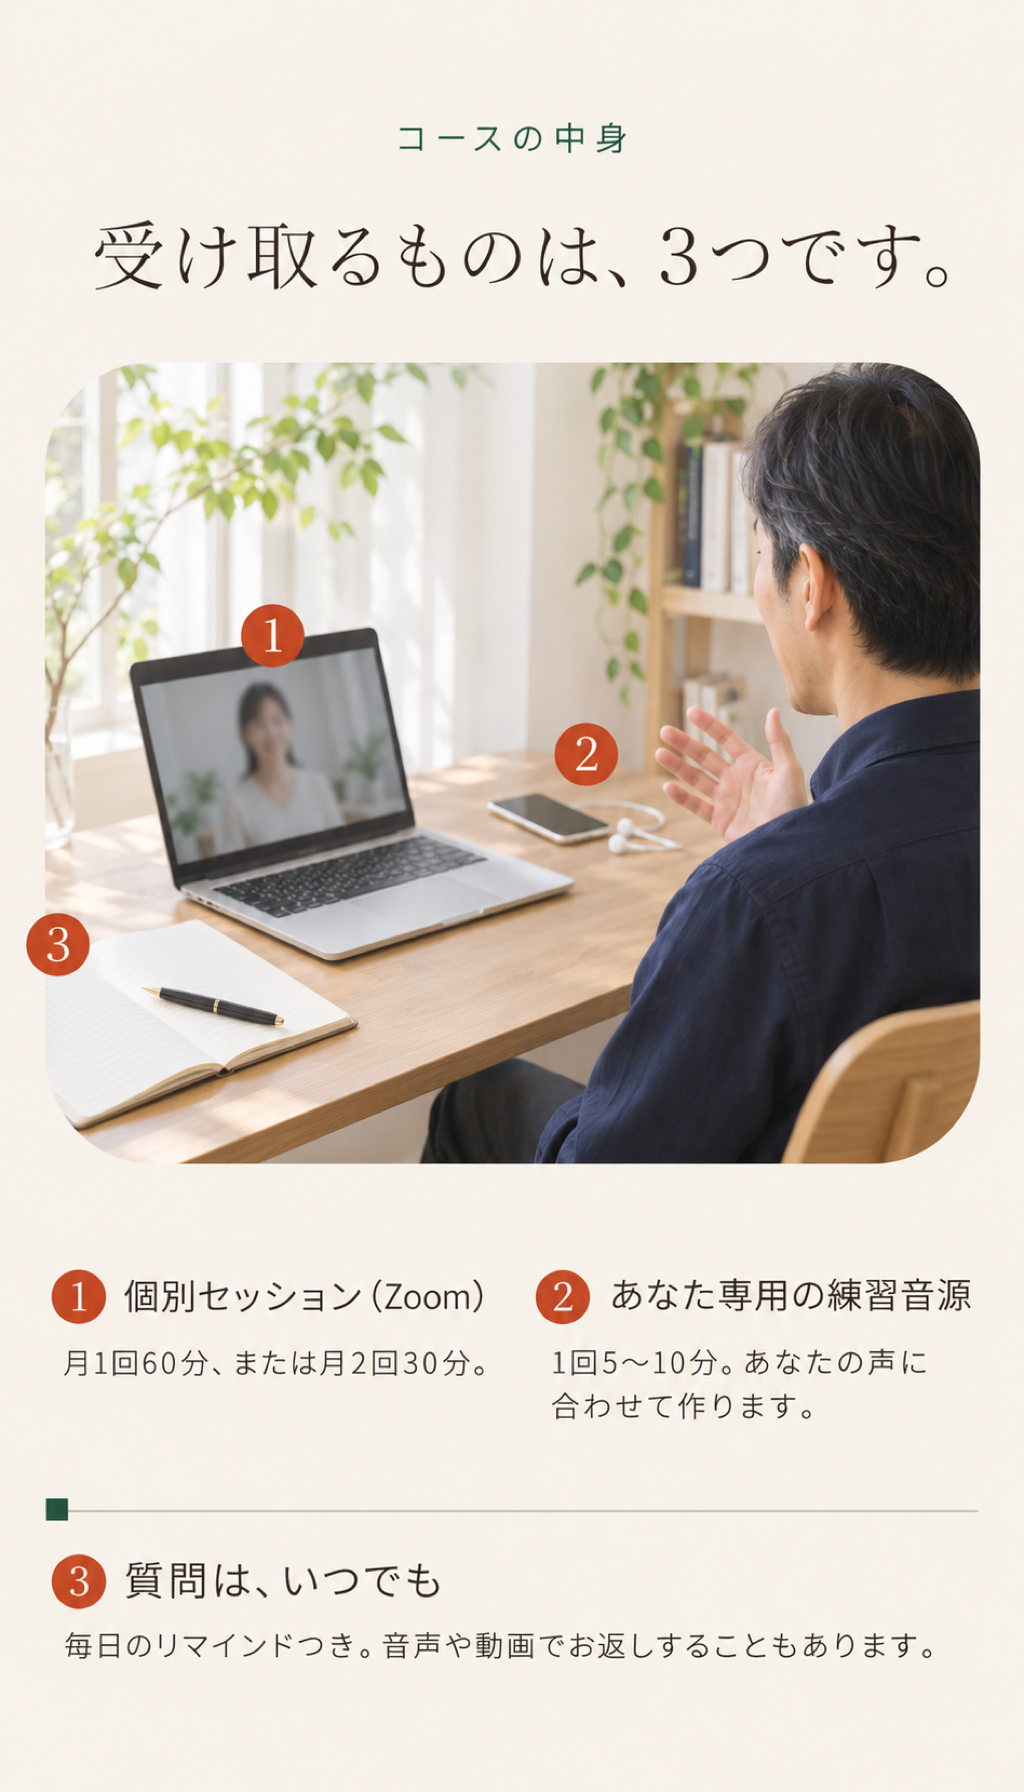
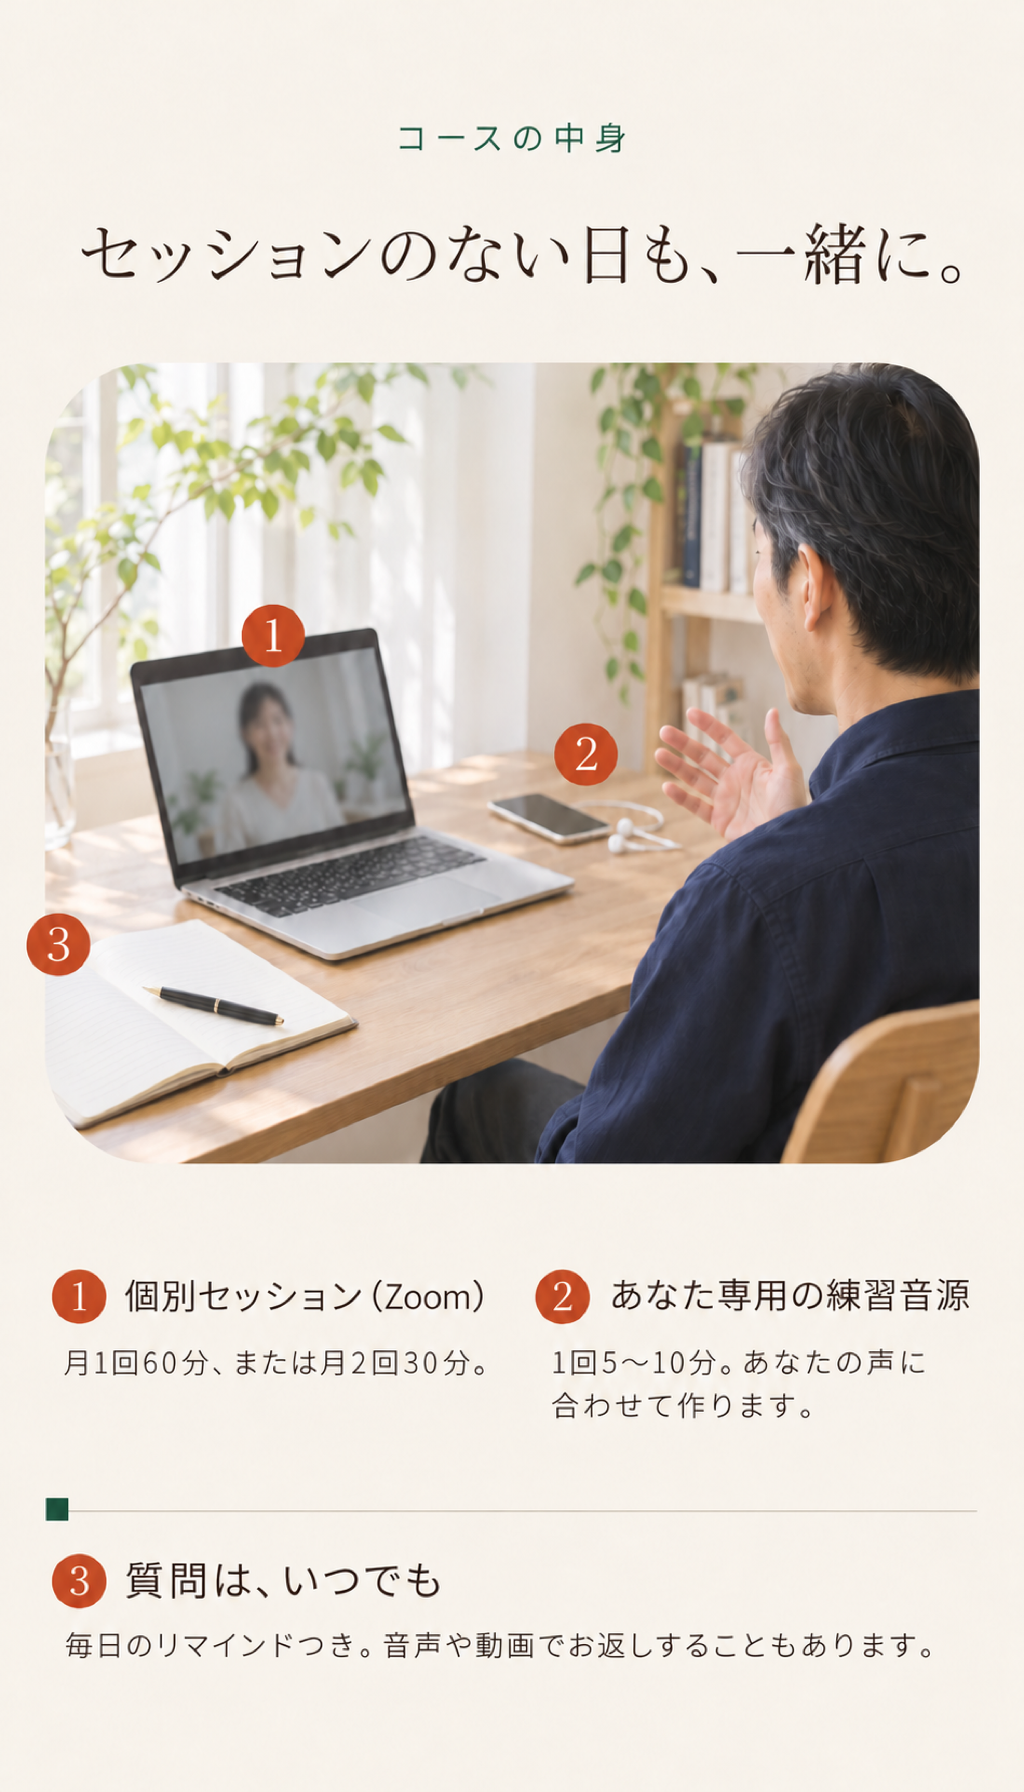
course-plans: 見出し3か所と受講者の声の見出しを直した画像に差し替え（11/27 みかさんGO）
Claude-Session: https://claude.ai/code/session_01DwjXMPVq5U4mBejhGh5RNJ

diff --git a/course-plans/index.html b/course-plans/index.html
@@ -27,13 +27,13 @@
   <!-- 02 コースの中身 -->
   <section class="shot">
     <img src="images/02-offer.png" width="1024" height="1792"
-         alt="コースで受け取るものは3つ。1 個別セッション（Zoom・月1回60分または月2回30分）、2 あなた専用の練習音源（1回5〜10分・あなたの声に合わせて作ります）、3 質問はいつでも（毎日のリマインドつき・音声や動画でお返しすることもあります）。">
+         alt="コースの中身。セッションのない日も、一緒に。1 個別セッション（Zoom・月1回60分または月2回30分）、2 あなた専用の練習音源（1回5〜10分・あなたの声に合わせて作ります）、3 質問はいつでも（毎日のリマインドつき・音声や動画でお返しすることもあります）。">
   </section>
 
   <!-- 03 毎月のリズム -->
   <section class="shot">
     <img src="images/03-detail.png" width="1024" height="1792"
-         alt="毎月のリズム。1 個別セッションで今の声を聴いて練習を決める、2 あなた専用の練習音源が届く、3 毎日少しずつ練習（リマインドが毎日届く）、4 つまずいたらいつでも質問、5 次のセッションで変化を一緒に確かめる。このリズムをどの長さで回すかを選びます。">
+         alt="1か月は、こんなふうに進みます。1 個別セッションで今の声を聴いて練習を決める、2 あなた専用の練習音源が届く、3 毎日少しずつ練習（リマインドが毎日届く）、4 つまずいたらいつでも質問、5 次のセッションで変化を一緒に確かめる。続ける長さは、下のプランから選べます。">
   </section>
 
   <!-- 04 こんな方に -->
@@ -45,7 +45,7 @@
   <!-- 05 受講者の声 -->
   <section class="shot">
     <img src="images/05-proof.png" width="1024" height="1792"
-         alt="受講者の声。資料の枚数が半分になりました。前は20分すぎたら喉がイガイガして早口になっていたのが、今回は喉の違和感なく最後までゆったり話せて、資料の枚数は半分で60分話せました。ラクです笑、こんなにラクになるんですね。（声のパーソナルコーチングを受講中の方）">
+         alt="受講者の声。喉の違和感なく、最後までゆったり話せました。前は20分すぎたら喉がイガイガして早口になっていたのが、今回は喉の違和感なく最後までゆったり話せて、資料の枚数は半分で60分話せました。ラクです笑、こんなにラクになるんですね。（声のパーソナルコーチングを受講中の方）">
   </section>
 
   <!-- 講師紹介（HTML・写真はみかさんの実物を差し込む） -->
